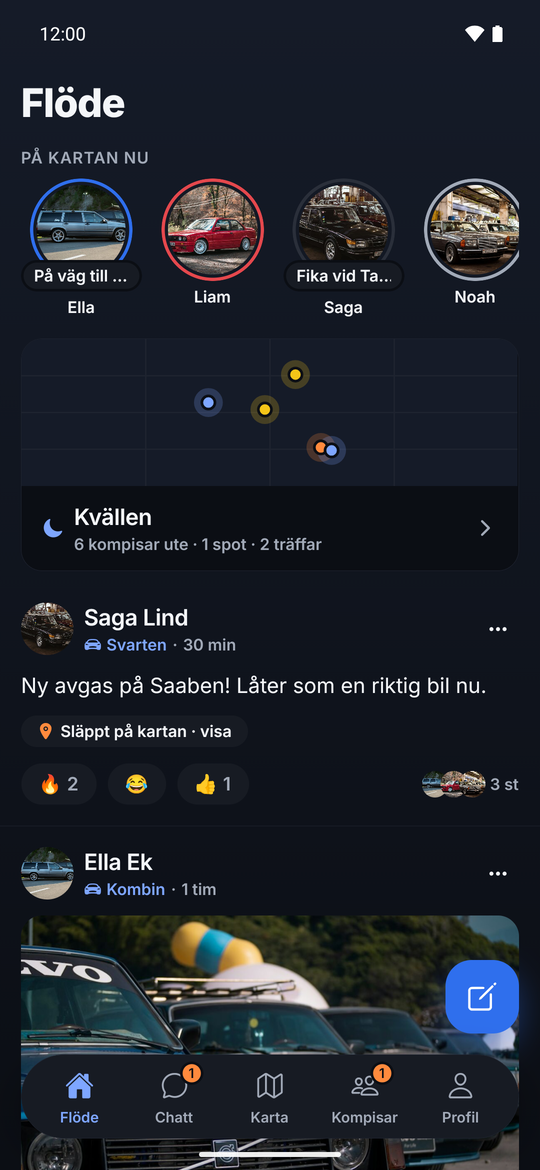
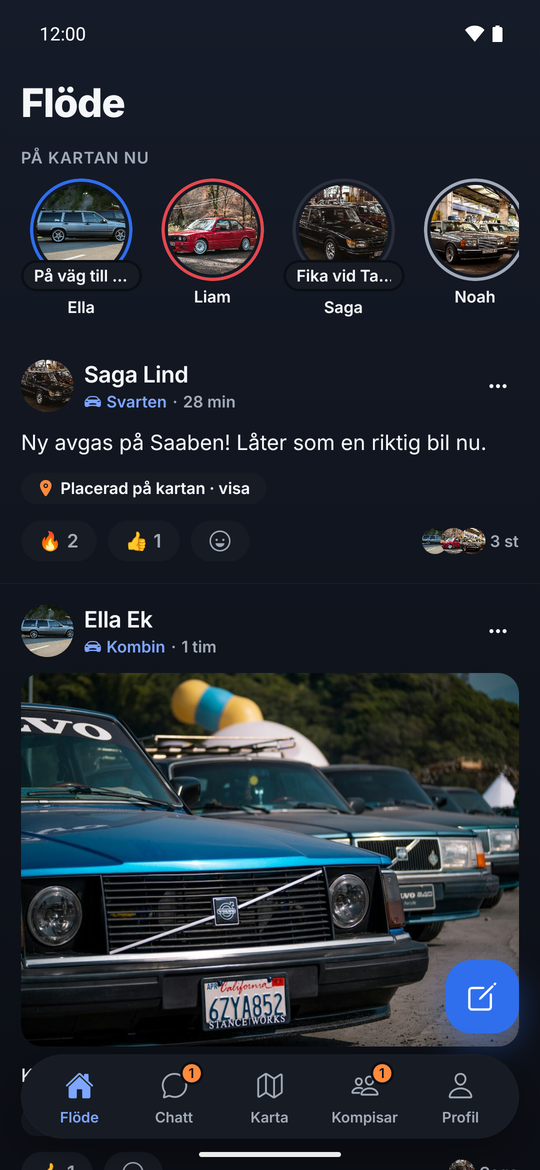
docs: readme for the public repo, with today's test counts and demo data (#1)

diff --git a/README.md b/README.md
@@ -1,24 +1,22 @@
 <p align="center"><img src="docs/assets/banner.png" alt="epaRadar" width="100%"></p>
 
-A Swedish app where EPA and A-traktor drivers add friends, share where they are with those friends
-only, and plan meetups.
+Friends on a live map. Only friends see where you are. A Swedish app for young drivers of EPA and
+A-traktor cars: add friends, share where you are with them only, and plan meetups.
 
-[eparadar.se](https://eparadar.se)
+[eparadar.se](https://eparadar.se) · in development, on its way to Google Play and the App Store
 
+<!-- Screenshots: from the demo data (made-up people around Södermalm), made by `mise run pictures`. -->
 <p align="center">
-  <img src="docs/assets/screenshots/karta.png" alt="Kartan med kompisar och spots" width="30%">
+  <img src="docs/assets/screenshots/karta.png" alt="Kartan med kompisar, spots och en träff" width="30%">
   <img src="docs/assets/screenshots/flode.png" alt="Flödet med kompisar ute just nu" width="30%">
-  <img src="docs/assets/screenshots/kompisar.png" alt="Kompislistan" width="30%">
+  <img src="docs/assets/screenshots/chatt.png" alt="En chatt mellan två kompisar" width="30%">
 </p>
-
-Pictures from the demo data, made by `mise run pictures`.
 
 ## Why it exists
 
 Young drivers of EPA and A-traktor cars meet up in parking lots and drive together. They plan it in
-group chats and on maps made for everyone. epaRadar does this one thing: shows which friends are
-out, where the meetup is and who is coming. I built it on my own, and it is on its way to Google
-Play and the App Store.
+group chats and on maps made for everyone. epaRadar does one thing: shows which friends are out,
+where the meetup is and who is coming. It is my degree project, built on my own.
 
 ## What was hard
 
@@ -27,12 +25,14 @@ taken apart, so the rules live in the database instead.
 
 - Location is off until you turn it on, and then only accepted friends see it. A row-level security
   policy in Postgres checks the friendship on every read, so a changed app or the public anon key
-  gets nothing more.
+  gets nothing more. Someone who is not a friend sees a name and a picture, nothing else.
 - Everything that shows where someone is or was runs out on the server: a position after 12 hours,
-  a status after 1 hour, spots and check-ins after their time. A `pg_cron` job clears them every
-  10 minutes.
-- 465 pgTAP tests cover every table and function, each with a case for someone logged out and for
-  someone who isn't a friend. They run before every merge that changes the database.
+  a status after 1 hour, a warning after 2 hours, other spots after 24 hours, a meetup a day after it
+  starts. A `pg_cron` job clears them every 10 minutes.
+- 511 pgTAP tests cover every table and function, each with a case for someone logged out and for
+  someone who is not a friend. 168 Jest tests cover the app's logic, and 8 Maestro flows click
+  through the main tasks on an Android emulator. The tests run before every merge, the flows for
+  every change to the app's screens.
 - Other people's posts, photos and messages can be reported, and anyone can be blocked.
 
 ## How it fits together
@@ -42,12 +42,12 @@ taken apart, so the rules live in the database instead.
 ## Stack
 
 React Native with Expo · Supabase (Postgres, row-level security, Realtime, Edge Functions, pgTAP) ·
-Astro on Vercel · TypeScript
+Astro on Vercel · TypeScript · Maestro
 
 ## Run it
 
 With made-up users on a local database. You need [mise](https://mise.jdx.dev), Docker and an
-Android phone.
+Android phone or emulator.
 
 ```sh
 mise install
@@ -58,9 +58,10 @@ mise exec -- npm run phone
 ```
 
 Put the local URL and anon key from `supabase status` in `apps/mobile/.env`, then sign in as
-`test@test.se` with the password `testtest`. `mise run check` runs lint, types and unit tests,
-and `mise run e2e` clicks through the main tasks with [Maestro](https://maestro.dev) on an Android
-emulator. Everything else is in [docs/development.md](docs/development.md).
+`test@test.se` with the password `testtest`. The demo data has ten made-up people around Södermalm
+in Stockholm, with cars, posts, meetups and chats. `mise run check` runs lint, types and unit tests,
+`mise exec -- supabase test db --local` runs the database tests, and `mise run e2e` runs the Maestro
+flows. Everything else is in [docs/development.md](docs/development.md).
 
 ## Licence
 
